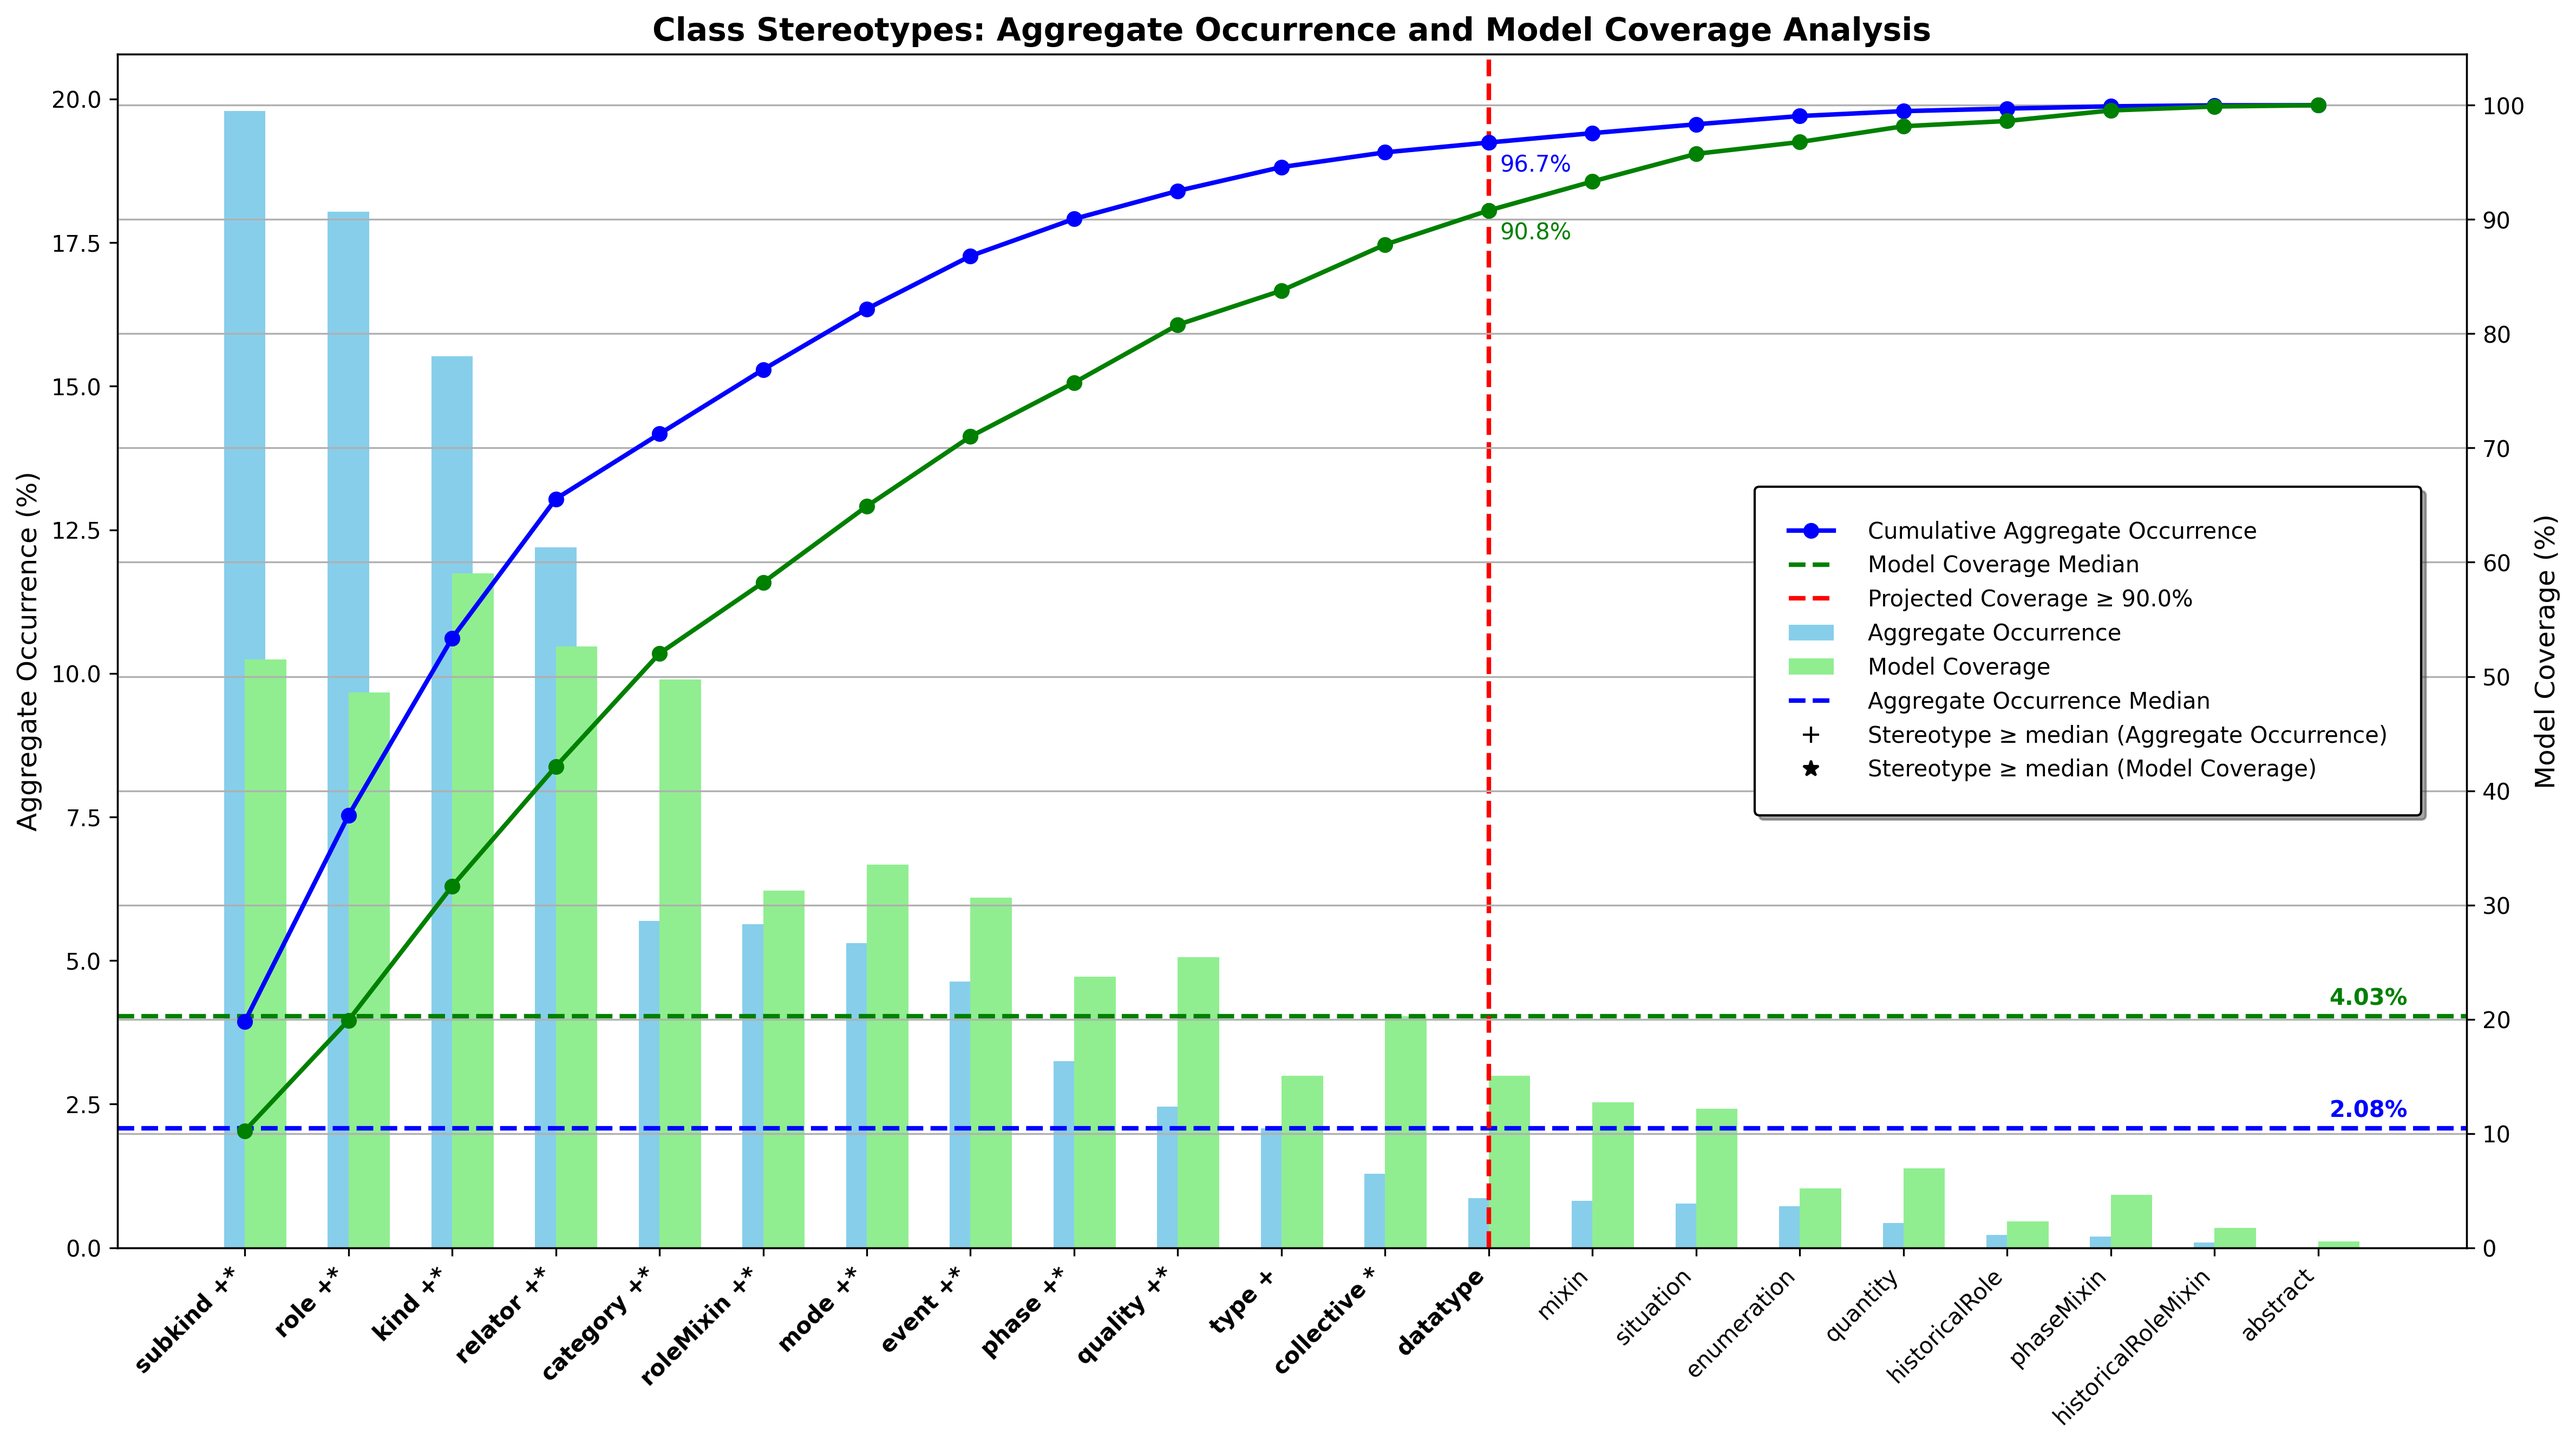
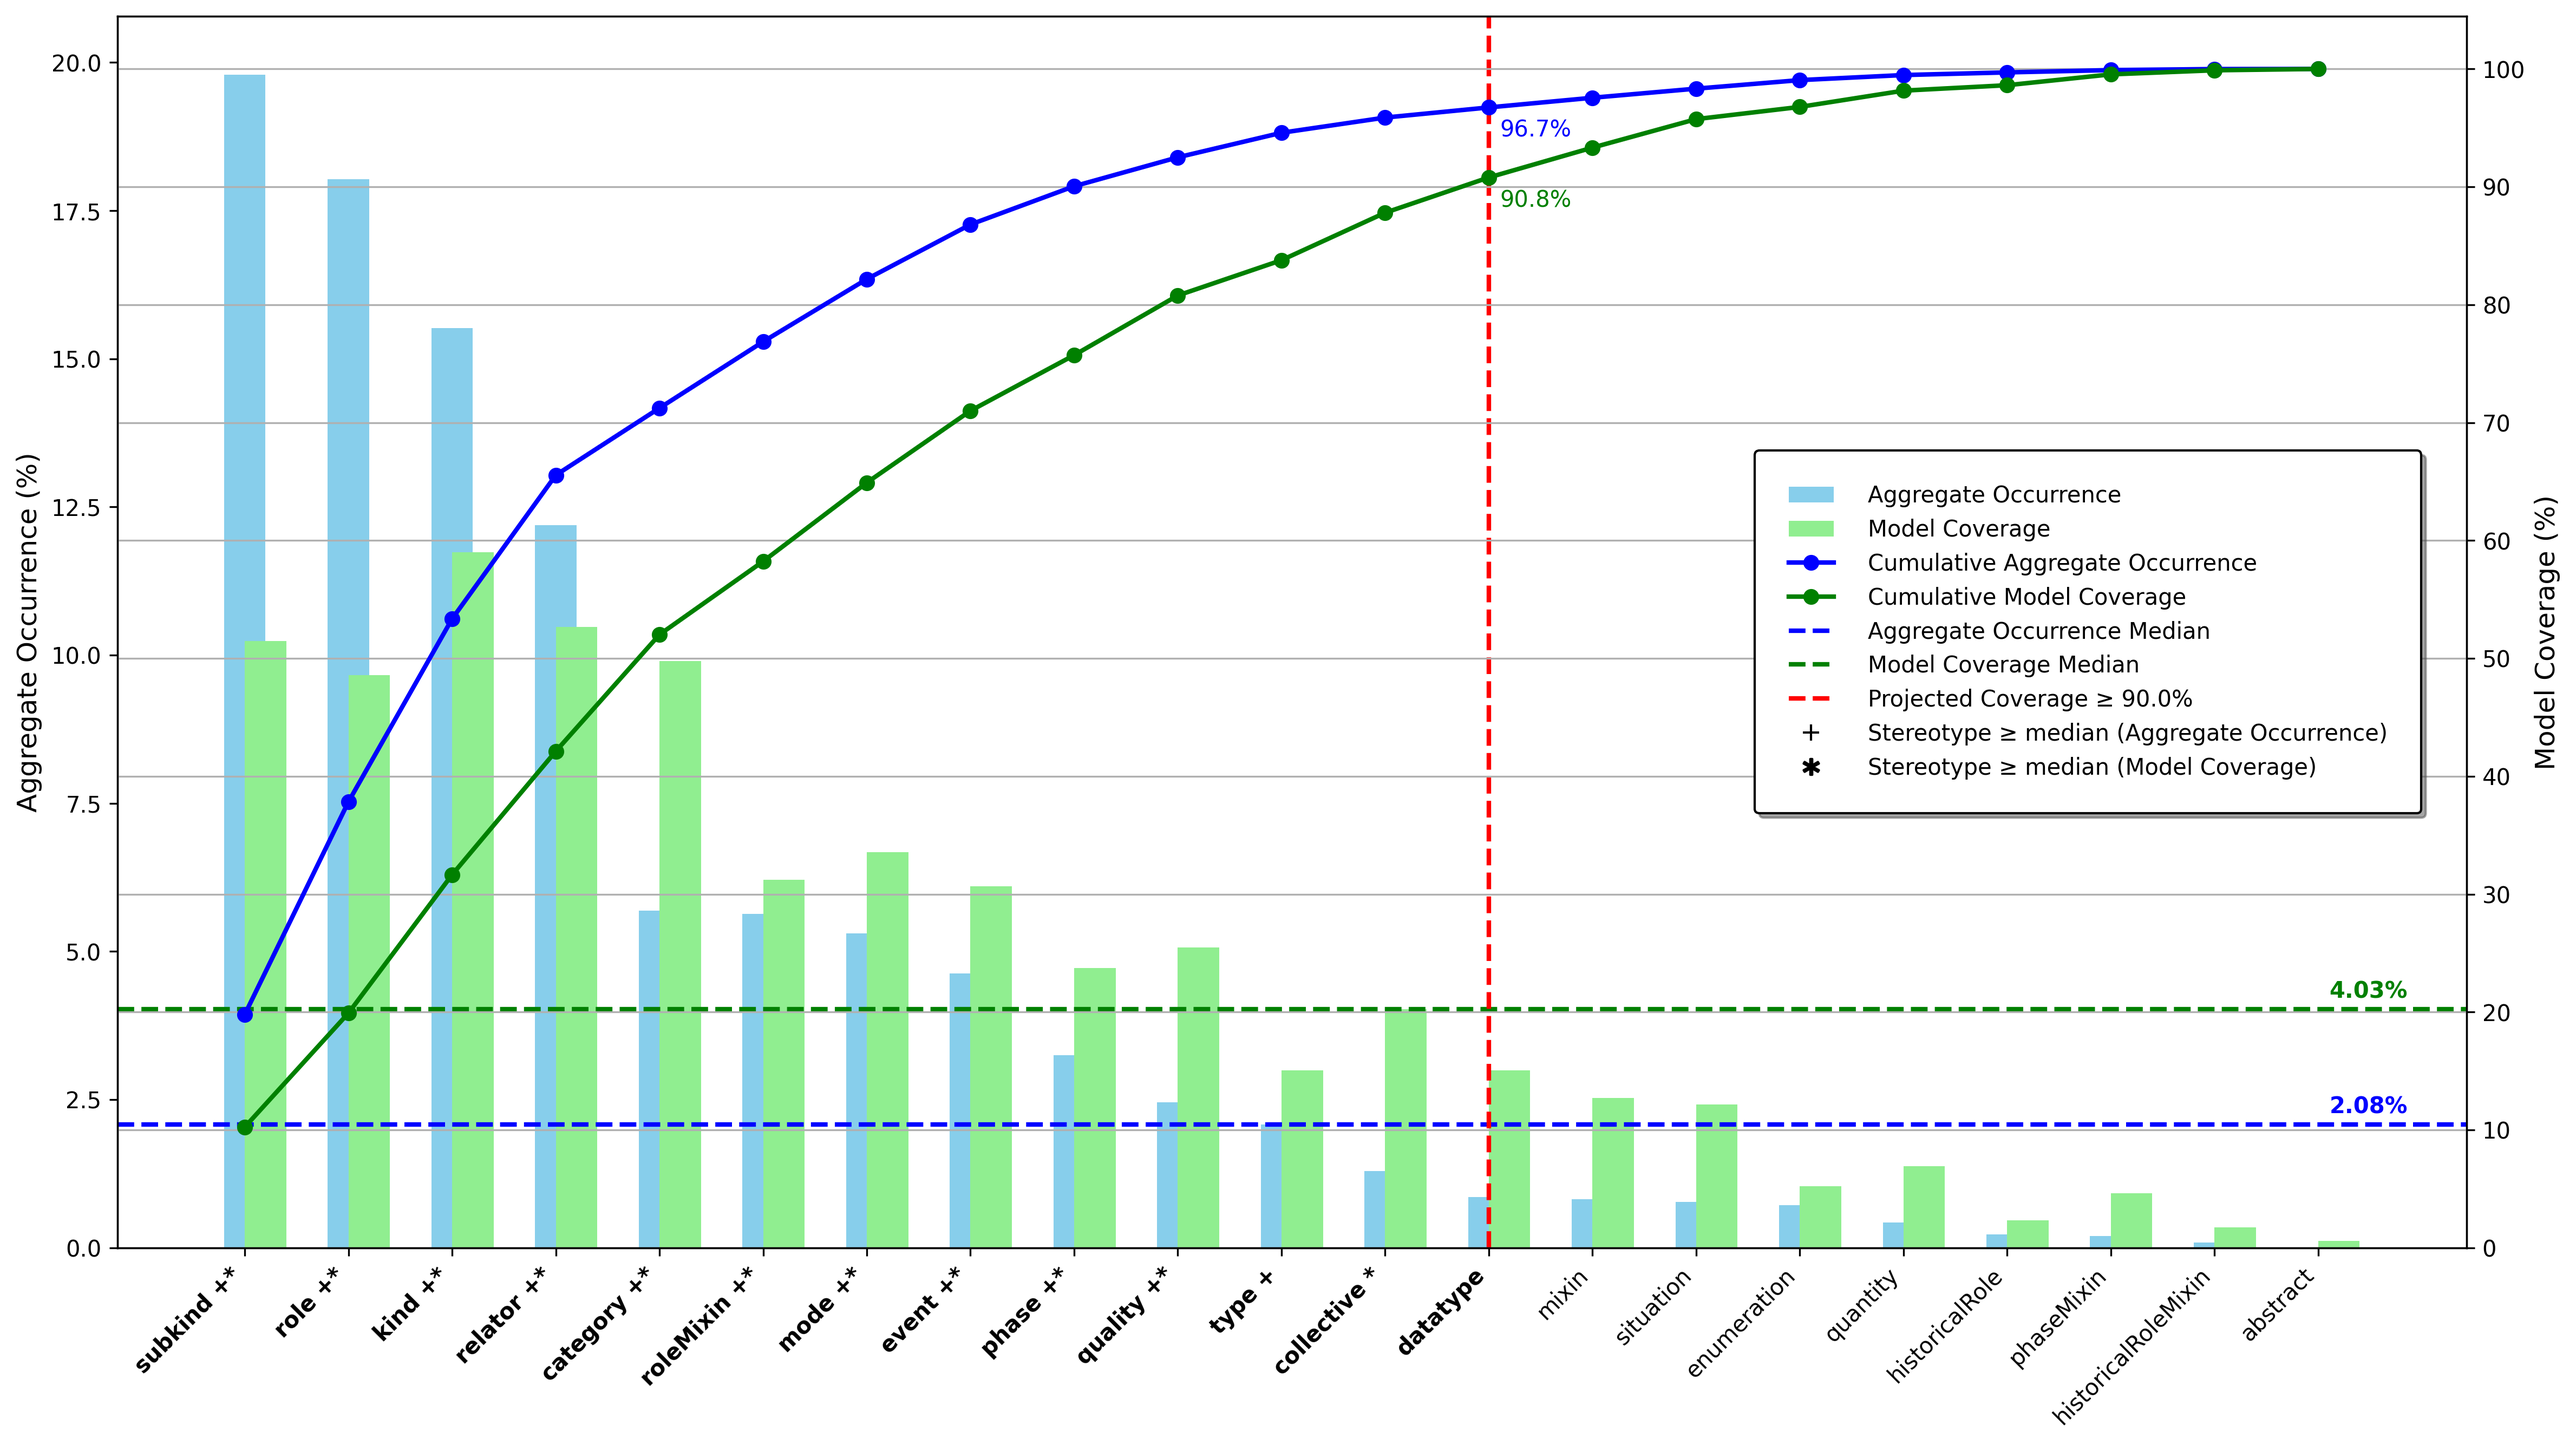
Pareto chart improvements concluded.

diff --git a/src/step3_output.py b/src/step3_output.py
@@ -3,6 +3,7 @@ import os
 import numpy as np
 import pandas as pd
 import seaborn as sns
+from icecream import ic
 from loguru import logger
 from matplotlib import pyplot as plt
 from matplotlib.lines import Line2D
@@ -89,7 +90,8 @@ def plot_pareto_combined(dataset, output_dir: str, coverage_limit: float = None)
 
         # Set labels and title
         ax1.set_ylabel('Aggregate Occurrence (%)', fontsize=12)
-        ax1.set_title(title, fontweight='bold', fontsize=14)
+        # Title ommited for the paper
+        # ax1.set_title(title, fontweight='bold', fontsize=14)
 
         # Rotate the labels by 90 degrees for better readability
         ax1.tick_params(axis='x', rotation=90)
@@ -173,9 +175,17 @@ def plot_pareto_combined(dataset, output_dir: str, coverage_limit: float = None)
         combined_handles = handles1 + handles2
         combined_labels = labels1 + labels2
 
+        # Reordering legend elements
+        combined_handles = [combined_handles[3], combined_handles[4], combined_handles[5],
+                            combined_handles[6], combined_handles[0], combined_handles[1],combined_handles[2]]
+        combined_labels = [combined_labels[3], combined_labels[4], combined_labels[5],
+                            combined_labels[6], combined_labels[0], combined_labels[1],combined_labels[2]]
+
+
         combined_legend = ax2.legend(combined_handles, combined_labels, loc='center right', bbox_to_anchor=(1, 0.5),
                                      frameon=True, facecolor='white', edgecolor='black', framealpha=1, shadow=True,
                                      handletextpad=1.5, borderaxespad=2, borderpad=1.5)
+
 
         # Set the zorder of the combined legend higher than other elements
         combined_legend.set_zorder(10)
@@ -187,7 +197,7 @@ def plot_pareto_combined(dataset, output_dir: str, coverage_limit: float = None)
         # Create proxy artists for the symbols
         legend_elements = [Line2D([0], [0], marker='+', color='black', linestyle='None', markersize=7,
                                   label='Stereotype ≥ median (Aggregate Occurrence)'),
-                           Line2D([0], [0], marker='*', color='black', linestyle='None', markersize=7,
+                           Line2D([0], [0], marker='$*$', color='black', linestyle='None', markersize=7,
                                   label='Stereotype ≥ median (Model Coverage)')]
 
         # Add these proxies to the existing legend
